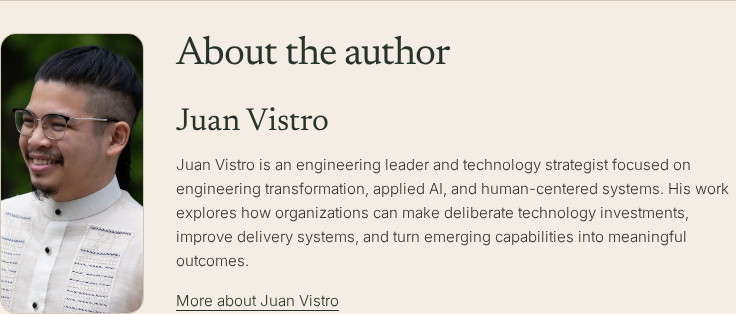
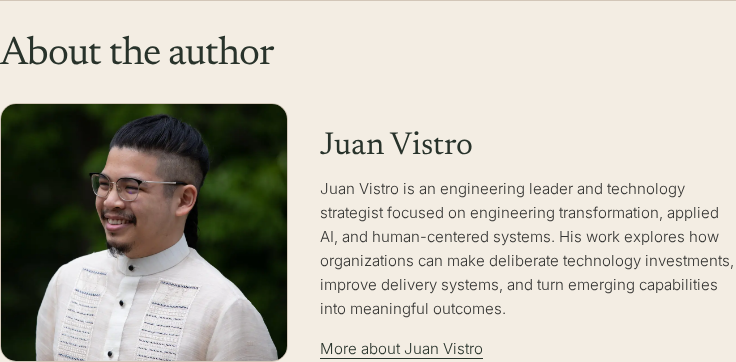
style: flatten article meta and widen author portrait

diff --git a/tests/article.spec.ts b/tests/article.spec.ts
@@ -20,6 +20,8 @@ test('article renders the approved headline, subtitle and share metadata', async
   for (const selector of ['main h1', 'main .subtitle', 'main .byline', 'main .byline-meta']) {
     await expect(page.locator(selector).first()).toHaveCSS('text-align', 'center');
   }
+  expect(await page.locator('.byline-panel').evaluate((element) => getComputedStyle(element).backgroundColor)).toBe('rgba(0, 0, 0, 0)');
+  expect(await page.locator('.byline-panel').evaluate((element) => getComputedStyle(element).paddingTop)).toBe('0px');
   await expect(page).toHaveTitle(title);
   await expect(page.locator('meta[name="description"]')).toHaveAttribute('content', description);
   await expect(page.locator('meta[property="og:type"]')).toHaveAttribute('content', 'article');
@@ -147,9 +149,14 @@ test('author bio follows the closing CTA and links to About', async ({ page }) =
   expect(await link.evaluate((element) => getComputedStyle(element).backgroundColor)).toBe('rgba(0, 0, 0, 0)');
   await expect(page.locator('.author-portrait')).toHaveAttribute('src', '/uploads/juan_vistro_portrait_q76.webp');
   await expect(page.locator('.author-portrait')).toHaveAttribute('alt', 'Portrait of Juan Vistro');
+  const title = (await page.locator('.author-bio-title').boundingBox())!;
   const portrait = (await page.locator('.author-portrait').boundingBox())!;
   const copy = (await page.locator('.author-bio-copy').boundingBox())!;
+  expect(title.y + title.height).toBeLessThanOrEqual(portrait.y + 2);
+  expect(title.y + title.height).toBeLessThanOrEqual(copy.y + 2);
+  expect(title.width).toBeGreaterThan(portrait.width + copy.width);
   expect(Math.abs(portrait.height - copy.height)).toBeLessThanOrEqual(2);
+  expect(portrait.width).toBeGreaterThanOrEqual(288);
   const order = await page.locator('#main').evaluate((main) => {
     const nodes = [...main.querySelectorAll('.article-body, .author-bio')];
     return nodes.map((node) => node.className);

diff --git a/docs/reviews/faster-code-tougher-tradeoffs/README.md b/docs/reviews/faster-code-tougher-tradeoffs/README.md
@@ -45,16 +45,19 @@ the closing CTA or metadata) at 200 words per minute, rounded up with a
 one-minute floor.
 
 Per the owner's reference renders, the heading column (title, subtitle, byline
-and meta line) is center-aligned, with the byline and reading time in a subtle
-ivory panel. No publication date is shown until one is real; when set, the
-panel shows `Published <date> · <minutes> min read`, with a separate
+and meta line) is center-aligned; the author and reading-time/publish metadata
+are plain lines, not a callout panel. No publication date is shown until one is
+real; when set, the
+byline shows `Published <date> · <minutes> min read`, with a separate
 `Last updated <date>` line only for a later substantive revision.
 
 The thesis eyebrow and text are centered. The closing Work With Me invitation
 sits below a copper rule with a primary button and no secondary About link.
-The `About the author` section has a heading, the author's name, bio and an
-underlined colored text link to `/about/` (not a button); the approved headshot
-(`juan_vistro_portrait_q76.webp`) spans the full height of those three lines.
+The `About the author` heading spans the full section above two columns. The
+right column has the author's name, bio and an underlined colored text link to
+`/about/` (not a button); the approved headshot
+(`juan_vistro_portrait_q76.webp`) occupies the wider left column and spans the
+full height of those three lines.
 
 ## Verification
 
